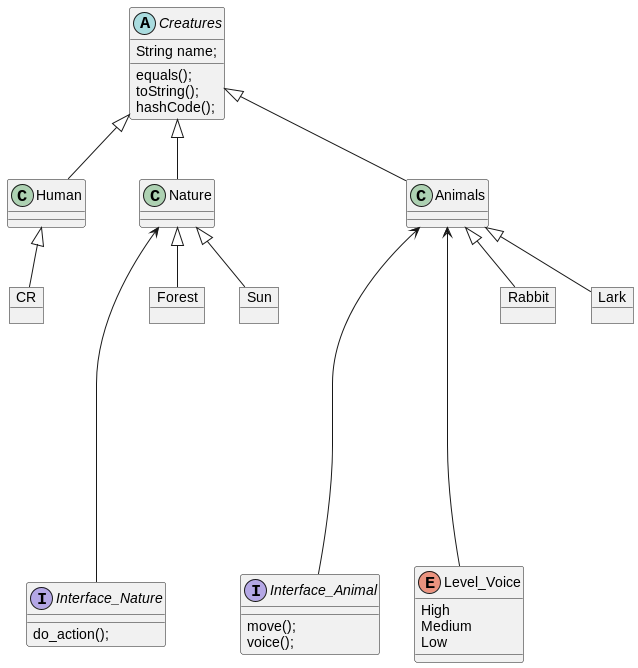
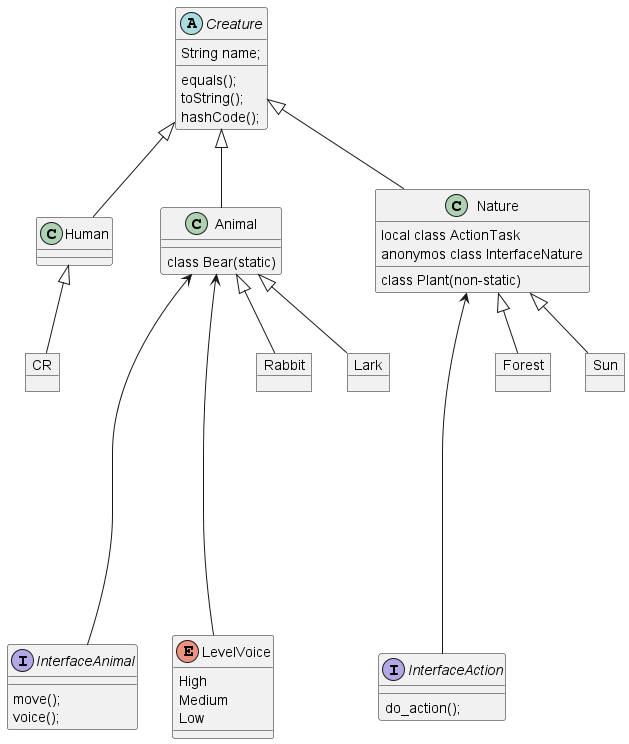
Add files via upload

diff --git a/lab4/src/main/java/org/example/Nature/Nature.java b/lab4/src/main/java/org/example/Nature/Nature.java
@@ -37,20 +37,7 @@ public class Nature extends Creature implements InterfaceNature {
         new Thread(task).start();
     }
 
-    // статический вложенный класс, представляющий животное
-    public static class Animal {
-        private String name;
-        private String sound;
 
-        public Animal(String name, String sound) {
-            this.name = name;
-            this.sound = sound;
-        }
-
-        public void makeSound() {
-            System.out.println(name + " делает " + sound);
-        }
-    }
 
     // нестатический вложенный класс, представляющий растение
     public class Plant {
@@ -66,4 +53,12 @@ public class Nature extends Creature implements InterfaceNature {
             System.out.println(name + " растет " + color + " цветом");
         }
     }
+
+    // анонимный класс, реализующий интерфейс InterfaceNature
+    InterfaceNature animal = new InterfaceNature() {
+        @Override
+        public void do_action(Nature o, String action) {
+            System.out.println("Природа " + action + " с " + o.name);
+        }
+    };
 }

diff --git a/lab4/src/main/java/org/example/Animal/Animal.java b/lab4/src/main/java/org/example/Animal/Animal.java
@@ -44,4 +44,19 @@ public class Animal extends Creature implements InterfaceAnimal {
             throw new Unchecked("Введите не пустую строку");
         }
     }
+
+    // статический вложенный класс, представляющий Медведя
+    public static class Bear {
+        private String name;
+        private String color;
+
+        public Bear(String name, String color) {
+            this.name = name;
+            this.color = color;
+        }
+
+        public void BearGo() {
+            System.out.println(name + " идет " + color + " шерсть");
+        }
+    }
 }
